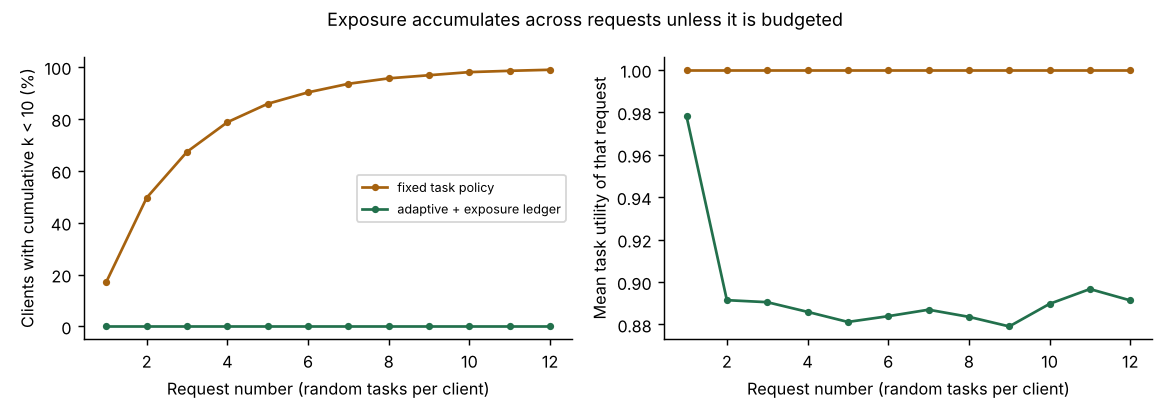
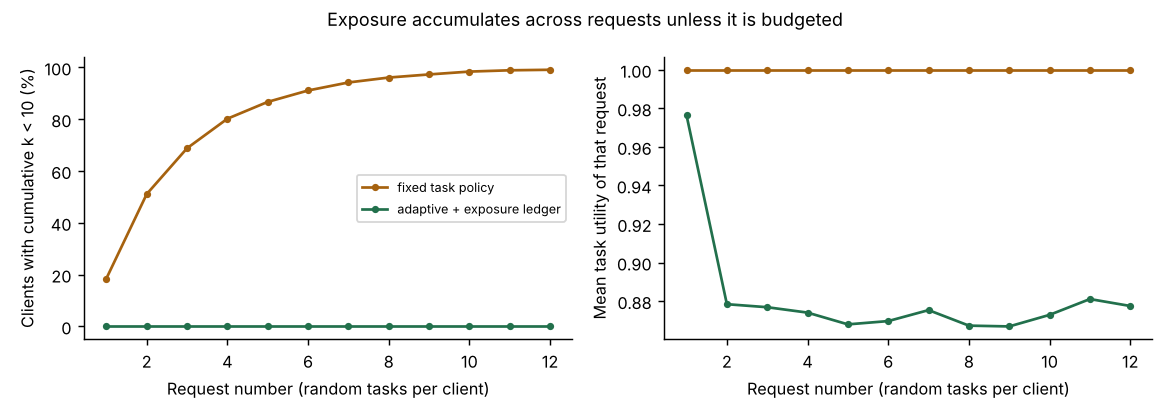
Refresh synthetic results after the faster crowd-size engine

diff --git a/docs/EVALUATION.md b/docs/EVALUATION.md
@@ -104,7 +104,7 @@ pending: `scripts/run_with_nvidia.sh` (hosted Llama 3.1 70B answers 15 clients x
 
 ## Results on synthetic data
 
-See `eval/results/`. The synthetic world was built to stress the system (wealthier clients, more concentrated positions, a 50,000-person directory), so its numbers are harsher, but the conclusions match: masking alone leaves every client unique, fixed task policies compound to 61% unique after 12 requests, the adaptive policy with a ledger holds k of 10 or more at about 0.89 utility.
+See `eval/results/`. The synthetic world was built to stress the system (wealthier clients, more concentrated positions, a 50,000-person directory), so its numbers are harsher, but the conclusions match: masking alone leaves every client unique, fixed task policies compound to 68% unique after 12 requests, and the adaptive policy with a ledger holds k of 10 or more at about 0.88 utility.
 
 ## Limitations
 
